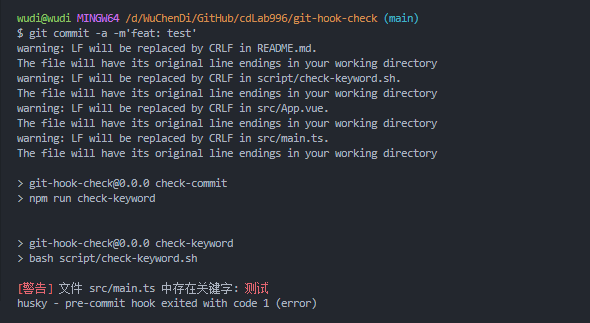
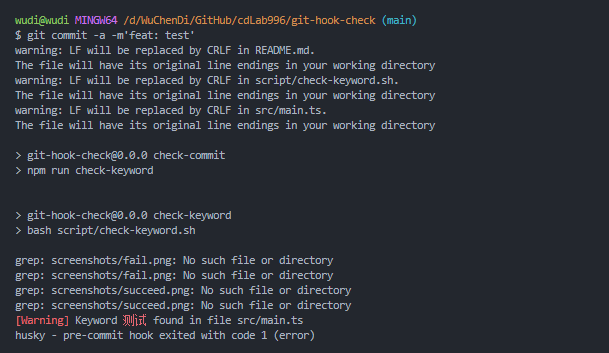
feat: test

Changed region(s): [[0.0, 0.031, 0.7627, 0.4954], [0.0, 0.7121, 0.5797, 0.9598], [0.0305, 0.5573, 0.3966, 0.6811]]

diff --git a/README.md b/README.md
@@ -1,36 +1,35 @@
 # 🚀 git-hook-check
 
-使用 git hook 对暂存区中的文件进行关键字拦截 [Link](./script/check-keyword.sh)
+English | [简体中文](./README-zh_CN.md)
+
+Use git hook to block keywords for files in the staging area. [Link](./script/check-keyword.sh)
 
 ## ✨ TODO
 
-- [x] 🔨 设置需要过滤的关键字
-- [x] 🔨 设置不需要检测的目录或文件路径
+- [x] 🔨 Set the keywords to be filtered
+- [x] 🔨 Set the path to a directory or file that does not need to be detected
 - [ ] 🔨 xxx
 
-## code
+## ⚡ code
 
 ```sh
 # Pre commit hooks to keyword intercept the list of files in the staging area
 # Add unwanted code to FILTER_WORDS if necessary
 
-# 预先提交钩子，对暂存区中的文件列表进行关键字拦截
-# 必要时将不需要的代码添加到 FILTER_WORDS 中
-
 #!/bin/bash
 
-# 设置需要过滤的关键字(支持中文)
+# Set the filter keywords (support Chinese)
 FILTER_WORDS="测试 debugger"
 
-# 设置不需要检测的目录或文件路径
+# Set the directories or file paths that don't need to be checked
 IGNORE_PATHS=".git node_modules script src/App.vue"
 
-# 获取暂存区中的文件列表
+# Get the list of files in the cache area
 FILES=$(git diff --name-only --cached)
 
-# 循环遍历文件列表
+# Loop through the file list
 for FILE in $FILES; do
-  # 判断文件是否在不需要检测的目录或文件路径中
+  # Check if the file is in the directories or file paths that don't need to be checked
   IGNORE=false
   for IGNORE_PATH in $IGNORE_PATHS; do
     if [[ $FILE == *"$IGNORE_PATH"* ]]; then
@@ -42,23 +41,21 @@ for FILE in $FILES; do
     continue
   fi
 
-  # 判断文件中是否存在需要过滤的关键字
+  # Check if the file contains the filter keywords
   for FILTER_WORD in $FILTER_WORDS; do
     if grep -Eiq "$FILTER_WORD" "$FILE"; then
-      echo -e "\033[31m[警告]\033[0m 文件 $FILE 中存在关键字: \033[31m$FILTER_WORD\033[0m"
+      echo -e "\033[31m[Warning]\033[0m Keyword \033[31m$FILTER_WORD\033[0m found in file $FILE"
       exit 1
     fi
   done
 done
 
-echo -e "\033[32m[提示]\033[0m 没有发现需要过滤的关键字"
+echo -e "\033[32m[Info]\033[0m No filtered keywords found"
 exit 0
 
 ```
 
-
-
-## 执行效果
+## 🔍 Execution Effect
 
 ### fail
 
@@ -67,3 +64,7 @@ exit 0
 ### succeed
 
 ![succeed](./screenshots/succeed.png)
+
+## 🎈 License
+
+[![GitHub license](https://img.shields.io/github/license/HJFront/gotabit-sdk-vue)](https://github.com/HJFront/gotabit-sdk-vue/blob/master/LICENSE)
